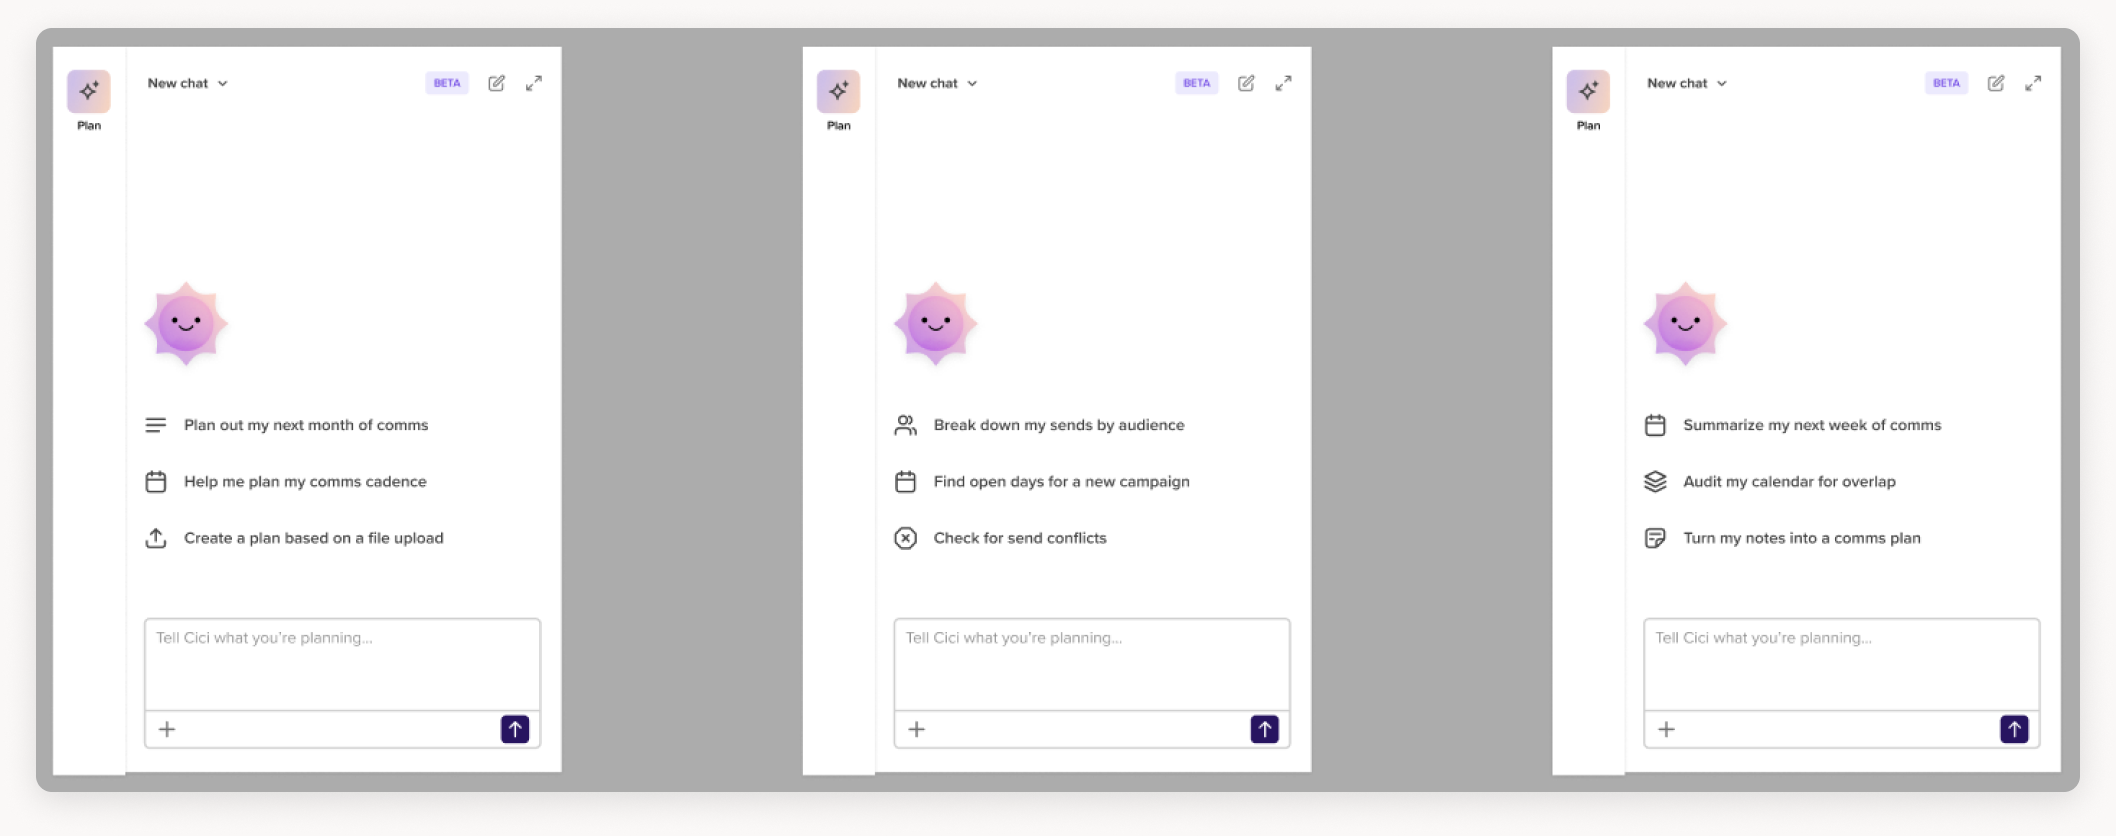
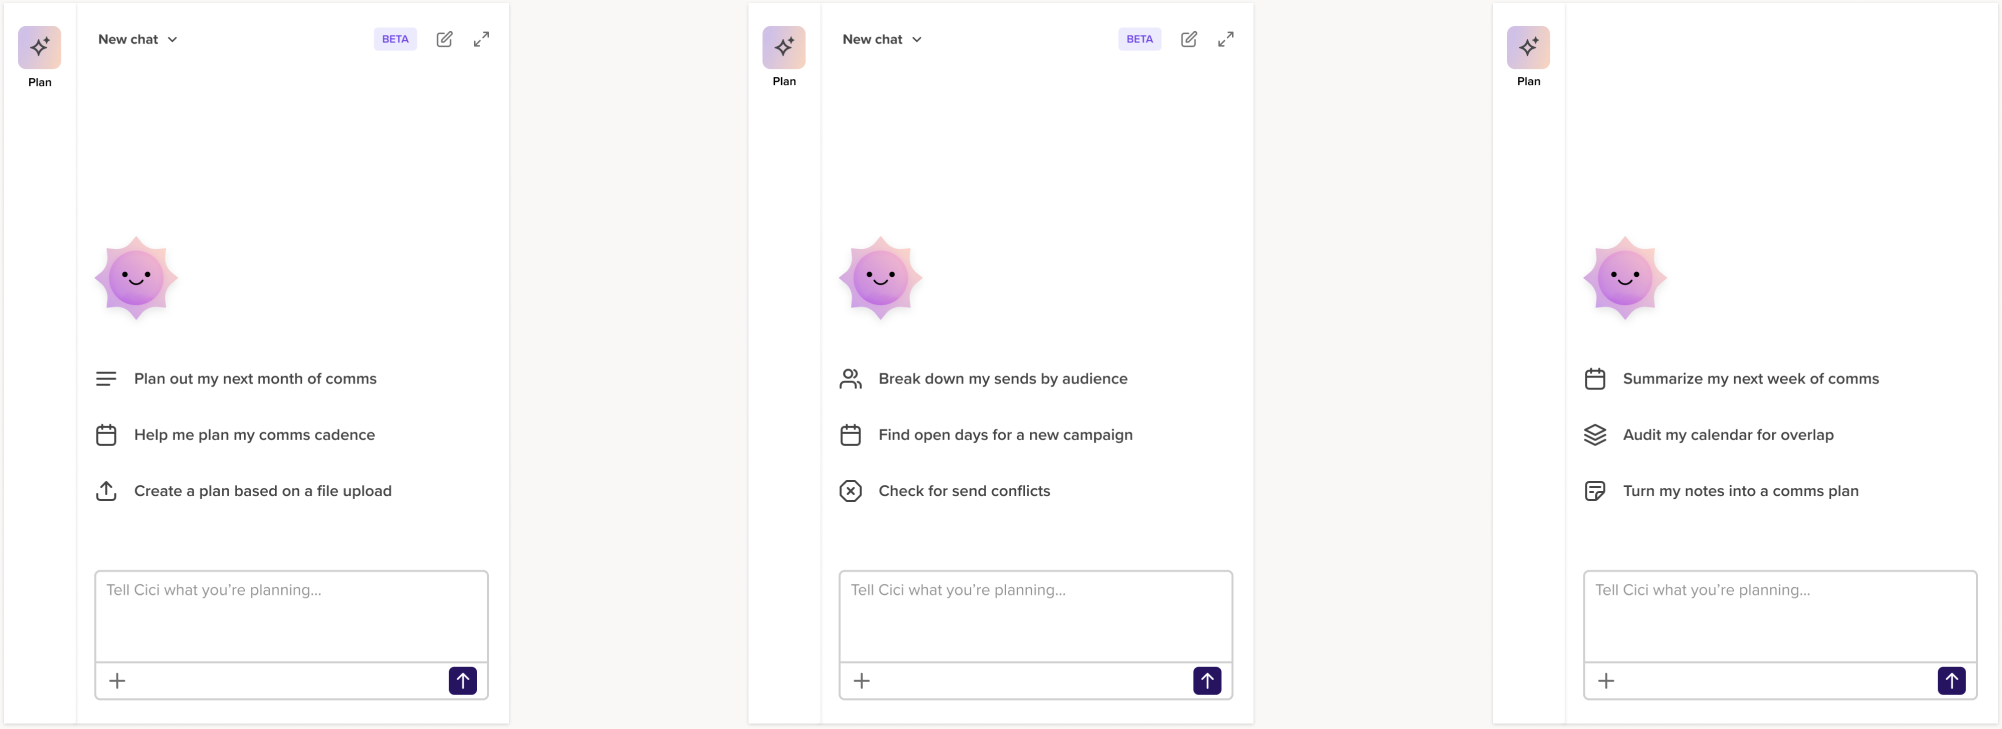
Workshop: equal spacing between sections, new suggested prompts screenshot

diff --git a/css/style.css b/css/style.css
@@ -1314,7 +1314,7 @@ a { color: inherit; text-decoration: none; }
 
 .ws-h2 { font-size: 36px; font-weight: 600; line-height: 40px; }
 .ws-h3 { font-size: 22px; font-weight: 600; line-height: 36px; }
-.ws-sub { margin-top: 88px; font-size: 18px; font-weight: 600; line-height: 28px; }
+.ws-sub { margin-top: 160px; font-size: 18px; font-weight: 600; line-height: 28px; }
 .ws-h2 + .ws-body, .ws-h2 + .ws-callout { margin-top: 33px; }
 .ws-h3 + .ws-body { margin-top: 24px; }
 .ws-sub + .ws-body { margin-top: 14px; }
@@ -1325,30 +1325,30 @@ a { color: inherit; text-decoration: none; }
 .ws-callout--wide { max-width: 814px; }
 .ws-callout + .ws-body { margin-top: 16px; }
 .ws-caption, .ws-fig figcaption { color: #777f90; font-size: 14px; line-height: 22px; }
-.ws-fig { margin-top: 64px !important; }
+.ws-fig { margin-top: 56px !important; }
 .ws-fig figcaption { margin-top: 15px; }
-.ws-fig--tight { margin-top: 30px !important; }
-.ws-caption { margin-top: 24px; }
-.ws-rule { margin: 110px 0; border: 0; border-top: 1px solid #d9d9d9; }
+.ws .ws-prompts-img { width: 1001px; max-width: 100%; } /* Figma 587:20092, 1001 wide */
+.ws-caption { margin-top: 16px; }
+.ws-rule { margin: 120px 0; border: 0; border-top: 1px solid #d9d9d9; }
 
 .ws-sec--first { padding-top: 119px; } /* Problem 1273 */
 .ws .ws-problem-img { width: 96.8%; margin: 57px 0 0 1.66%; } /* x 226, y 1609 */
 
 /* Solution: the calendar screen bleeds off the right edge of the window (Figma x 834 → frame edge) */
-.ws-solution { position: relative; padding-top: 176px; } /* padding, not the rule's margin, so the 176px stays inside the section */
+.ws-solution { position: relative; padding-top: 120px; } /* padding, not the rule's margin, so the space stays inside the section */
 .ws-solution .ws-rule { margin: 0; } /* 2158 */
-.ws-solution__inner { position: relative; z-index: 2; min-height: 628px; padding-top: 213px; } /* heading 2378; above the screen so the arrow can cross it */
+.ws-solution__inner { position: relative; z-index: 2; min-height: 668px; padding-top: 243px; } /* screen 120 below the rule and 120 above the next one; heading beside it; above the screen so the arrow can cross it */
 .ws-solution__text, .ws-solution__result { position: relative; z-index: 1; max-width: 501px; }
 .ws .ws-solution__text { margin-top: 48px; } /* first line 2460, 302 below the rule */
 .ws .ws-solution__result { max-width: 550px; margin-top: 36px; } /* two lines, as in Figma (DM Sans runs wider than Figma's Proxima Nova) */
 .ws-solution__text .ws-lead { position: relative; display: inline-block; font-size: 18px; font-weight: 700; } /* shrink-wraps the sentence so the arrow can start at its end */
 .ws .ws-solution__arrow { position: absolute; left: calc(100% + 9px); top: calc(50% - 1px); width: calc(911px - 100%); height: 194px; max-width: none; } /* starts just after "content!" at mid-line and always ends at Figma's tip (x 1129 = 920px into the column), on the planned email; the SVG stretches to fit */
-.ws .ws-solution__img { position: absolute; z-index: 1; left: calc(50% + 71px); top: calc(176px + 54px); width: 650px; max-width: none; } /* screen 2248, 90 below the rule (export adds ~36px of shadow) */
+.ws .ws-solution__img { position: absolute; z-index: 1; left: calc(50% + 71px); top: calc(120px + 84px); width: 650px; max-width: none; } /* screen 2248, 90 below the rule (export adds ~36px of shadow) */
 
 .ws-findings { display: grid; grid-template-columns: 1fr 1fr; column-gap: 40px; row-gap: 80px; margin-top: 56px; }
 .ws-findings h3 { font-size: 18px; font-weight: 600; line-height: 28px; }
 .ws-findings p { margin-top: 10px; font-size: 16px; line-height: 26px; }
-.ws-after-findings { margin-top: 64px; }
+.ws-after-findings { margin-top: 56px; }
 
 .ws-phases__inner { display: flex; justify-content: space-between; align-items: center; gap: 32px; }
 .ws-kicker { color: #777f90; font-size: 16px; font-weight: 500; line-height: 40px; letter-spacing: 0.07em; }
@@ -1356,13 +1356,13 @@ a { color: inherit; text-decoration: none; }
 .ws-phases__list li { display: flex; }
 .ws-phases__list li + li { margin-top: 32px; }
 .ws-phases__list span { flex: none; width: 61px; }
-.ws .ws-phases__cici { flex: none; width: 210px; margin-right: 0; }
+.ws .ws-phases__cici { flex: none; width: 210px; margin: -24px 0; } /* the export has ~23px of glow around the drawing */
 
 /* Screens placed at their Figma positions inside the 1022px column (percentages written by the build) */
-.ws-comp { position: relative; container-type: inline-size; margin-top: 28px; }
+.ws-comp { position: relative; container-type: inline-size; margin-top: 56px; }
 .ws-comp > img { position: absolute; height: auto; }
 .ws-comp__arrow { position: absolute; color: #777f90; font-size: calc(22 / 1022 * 100cqw); line-height: 1.27; }
-.ws-steps + .ws-comp { margin-top: 56px; }
+.ws-steps + .ws-comp { margin-top: 64px; }
 .ws-before-after + .ws-comp { margin-top: 64px; }
 
 .ws-steps { display: grid; margin-top: 18px !important; padding: 0; list-style: none; }
@@ -1375,7 +1375,7 @@ a { color: inherit; text-decoration: none; }
 .ws-landed { margin-top: 56px; }
 .ws-callout--end { margin-top: 56px; }
 
-.ws-cards { display: grid; grid-template-columns: 1fr 1fr; column-gap: 40px; row-gap: 56px; margin-top: 48px; }
+.ws-cards { display: grid; grid-template-columns: 1fr 1fr; column-gap: 40px; row-gap: 56px; margin-top: 56px; }
 .ws-cards img { aspect-ratio: 491 / 290; object-fit: cover; border-radius: 12px; }
 .ws-cards h3 { margin-top: 20px; font-size: 18px; font-weight: 600; line-height: 28px; }
 .ws-cards p { margin-top: 6px; font-size: 16px; line-height: 26px; }

diff --git a/workshop.html b/workshop.html
@@ -257,15 +257,15 @@
 </div>
         <p data-reveal class="ws-caption">Wireframes and hi-fi explorations for a dedicated Cici chat in the calendar.</p>
         <p data-reveal class="ws-body ws-landed">We landed on a new side navigation on the left of the calendar. Users open Cici with the “Plan” sparkle icon, and the calendar resizes as the chat opens, so content Cici creates appears in real time.</p>
-        <figure data-reveal class="ws-fig ws-fig--tight">
+        <figure data-reveal class="ws-fig">
           <img loading="lazy" src="assets/images/workshop/final-sidenav.png" width="2044" height="1038" alt="The calendar with the new left side nav and the Cici chat open, showing a drafted plan">
           <figcaption>The final direction: Cici lives in the calendar’s new left side nav.</figcaption>
         </figure>
 
         <h3 data-reveal class="ws-sub">Suggested prompts</h3>
         <p data-reveal class="ws-body">I also gave design input on how Cici’s suggested prompts should change on the calendar, so a new chat starts with planning tasks like mapping out next month’s comms, checking for send conflicts, or turning notes into a plan.</p>
-        <figure data-reveal class="ws-fig ws-fig--tight">
-          <img loading="lazy" src="assets/images/workshop/prompts.png" width="2116" height="836" alt="Three Cici chat panels, each with a different set of calendar planning prompts">
+        <figure data-reveal class="ws-fig">
+          <img loading="lazy" class="ws-prompts-img" src="assets/images/workshop/prompts.png" width="2002" height="729" alt="Three new Cici chats, each suggesting a different set of calendar planning prompts">
           <figcaption>Calendar-specific suggested prompts that rotate in a new Cici chat.</figcaption>
         </figure>
         <p data-reveal class="ws-callout ws-callout--end">Designing for an AI agent meant designing the moments around it: when Cici should ask instead of answer, how a user reviews a draft before anything lands on the calendar, and how they correct it.</p>

diff --git a/CLAUDE.md b/CLAUDE.md
@@ -42,6 +42,7 @@ Rebuild of sicilymanganaro.com. Designs live in Figma; code implements them.
 - `workshop.html` is built from Figma 537:5547 ("workshop — expanded draft"); the gate script is first in its `<head>`, and `workshop-locked.html` sends a correct password there (`data-next`). Home card and Work tile still point at the gate.
 - Light page on Figma's #faf8f7 (exports have it baked in around their shadows). Styles are the `.ws-*` block at the end of `style.css`.
 - Screens are 2x exports in `assets/images/workshop/`. Step rows (`.ws-comp`) place each screen at its Figma position as percentages of the 1022px column; the numbered labels below are real text (`.ws-steps`).
+- Spacing is one scale, not Figma's exact y positions (Sicily asked for equal gaps): 120px above and below every divider (measured to the visible screen, not its baked-in shadow), 160px before each sub-heading, 56px from text to its visuals, 64px between step rows.
 - The user-flow image has a hover magnifier (`.magnify`, `js/main.js`): a round lens at 3x from `flow-large.jpg`, mouse/trackpad only.
 
 ## Phone screen (desktop-only for now)
